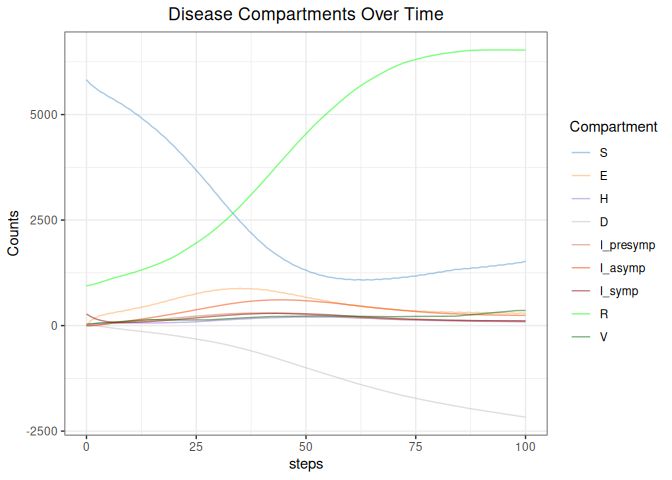
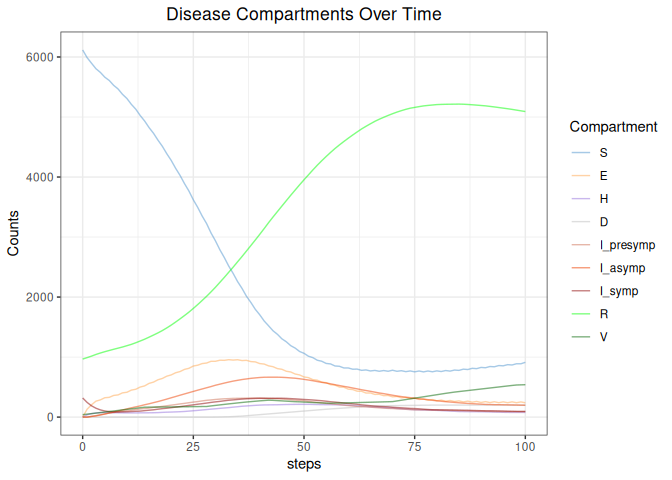
bug fixed in readme

diff --git a/README.md b/README.md
@@ -69,12 +69,12 @@ pop_zones$S0 <- pop_zones$N - pop_zones$I0 - pop_zones$V0 - pop_zones$R0
 
 pop_zones
 #>      N   S0 I0 V0  R0
-#> 1 1058  854 12  2 190
-#> 2 1124  909 51  7 157
-#> 3 1245 1003 86  8 148
-#> 4 1276 1142 10  5 119
-#> 5 1190  940 81  9 160
-#> 6 1185  976 35  6 168
+#> 1 1062  812 88  7 155
+#> 2 1158  923 47  4 184
+#> 3 1481 1302 10  3 166
+#> 4 1354 1168 69 10 107
+#> 5 1251  998 63  8 182
+#> 6 1138  914 42  9 173
 ```
 
 #### Vaccination
@@ -95,14 +95,14 @@ colnames(vac_zones) <- c("t", paste0("v", 1:N_pop))
 
 vac_zones
 #>       t v1 v2 v3 v4 v5 v6
-#> [1,]  0  2  7  8  5  9  6
-#> [2,] 14  3  4  5  1  3  5
-#> [3,] 28  5  5 10  1  5  7
-#> [4,] 42  6  6 10  1  1  1
-#> [5,] 56  1  4  2  6  8  1
-#> [6,] 70  3  1 10  3  1  8
-#> [7,] 84  8  6  9  9  6  7
-#> [8,] 98  5  2  3  4  7  8
+#> [1,]  0  7  4  3 10  8  9
+#> [2,] 14  1  3  9  2  7  3
+#> [3,] 28  7  8  8  9  7  2
+#> [4,] 42  2  2  4  3  7  3
+#> [5,] 56  7  5  6  1  4  5
+#> [6,] 70  5 10 10  7  5 10
+#> [7,] 84  8  6  9  6  7  7
+#> [8,] 98 10  1  6  4  8  4
 ```
 
 ``` r
@@ -154,7 +154,7 @@ out <- meta_sim(N_pop = N_pop,
                 ds = 2,
                 psr = 0.5,
                 dh = 3,
-                phr = 2,
+                phr = 0.8,
                 dr = 50,
                 ve = 0.5,
                 nsteps = 100,
@@ -171,7 +171,7 @@ out <- meta_sim(N_pop = N_pop,
 #> gcc -I"/usr/share/R/include" -DNDEBUG       -fpic  -g -O2 -fno-omit-frame-pointer -mno-omit-leaf-frame-pointer -ffile-prefix-map=/build/r-base-FPSnzf/r-base-4.3.3=. -fstack-protector-strong -fstack-clash-protection -Wformat -Werror=format-security -fcf-protection -fdebug-prefix-map=/build/r-base-FPSnzf/r-base-4.3.3=/usr/src/r-base-4.3.3-2build2 -Wdate-time -D_FORTIFY_SOURCE=3  -UNDEBUG -Wall -pedantic -g -O0 -c odin.c -o odin.o
 #> gcc -I"/usr/share/R/include" -DNDEBUG       -fpic  -g -O2 -fno-omit-frame-pointer -mno-omit-leaf-frame-pointer -ffile-prefix-map=/build/r-base-FPSnzf/r-base-4.3.3=. -fstack-protector-strong -fstack-clash-protection -Wformat -Werror=format-security -fcf-protection -fdebug-prefix-map=/build/r-base-FPSnzf/r-base-4.3.3=/usr/src/r-base-4.3.3-2build2 -Wdate-time -D_FORTIFY_SOURCE=3  -UNDEBUG -Wall -pedantic -g -O0 -c registration.c -o registration.o
 #> gcc -shared -L/usr/lib/R/lib -Wl,-Bsymbolic-functions -flto=auto -ffat-lto-objects -Wl,-z,relro -o odind60a1e19.so odin.o registration.o -L/usr/lib/R/lib -lR
-#> installing to /tmp/RtmpqUq31p/devtools_install_130d70760a60c2/00LOCK-file130d7026c74d33/00new/odind60a1e19/libs
+#> installing to /tmp/Rtmpwr1Ufg/devtools_install_131118663b7c97/00LOCK-file13111812675a94/00new/odind60a1e19/libs
 #> ** checking absolute paths in shared objects and dynamic libraries
 #> * DONE (odind60a1e19)
 #> ℹ Loading odind60a1e19
